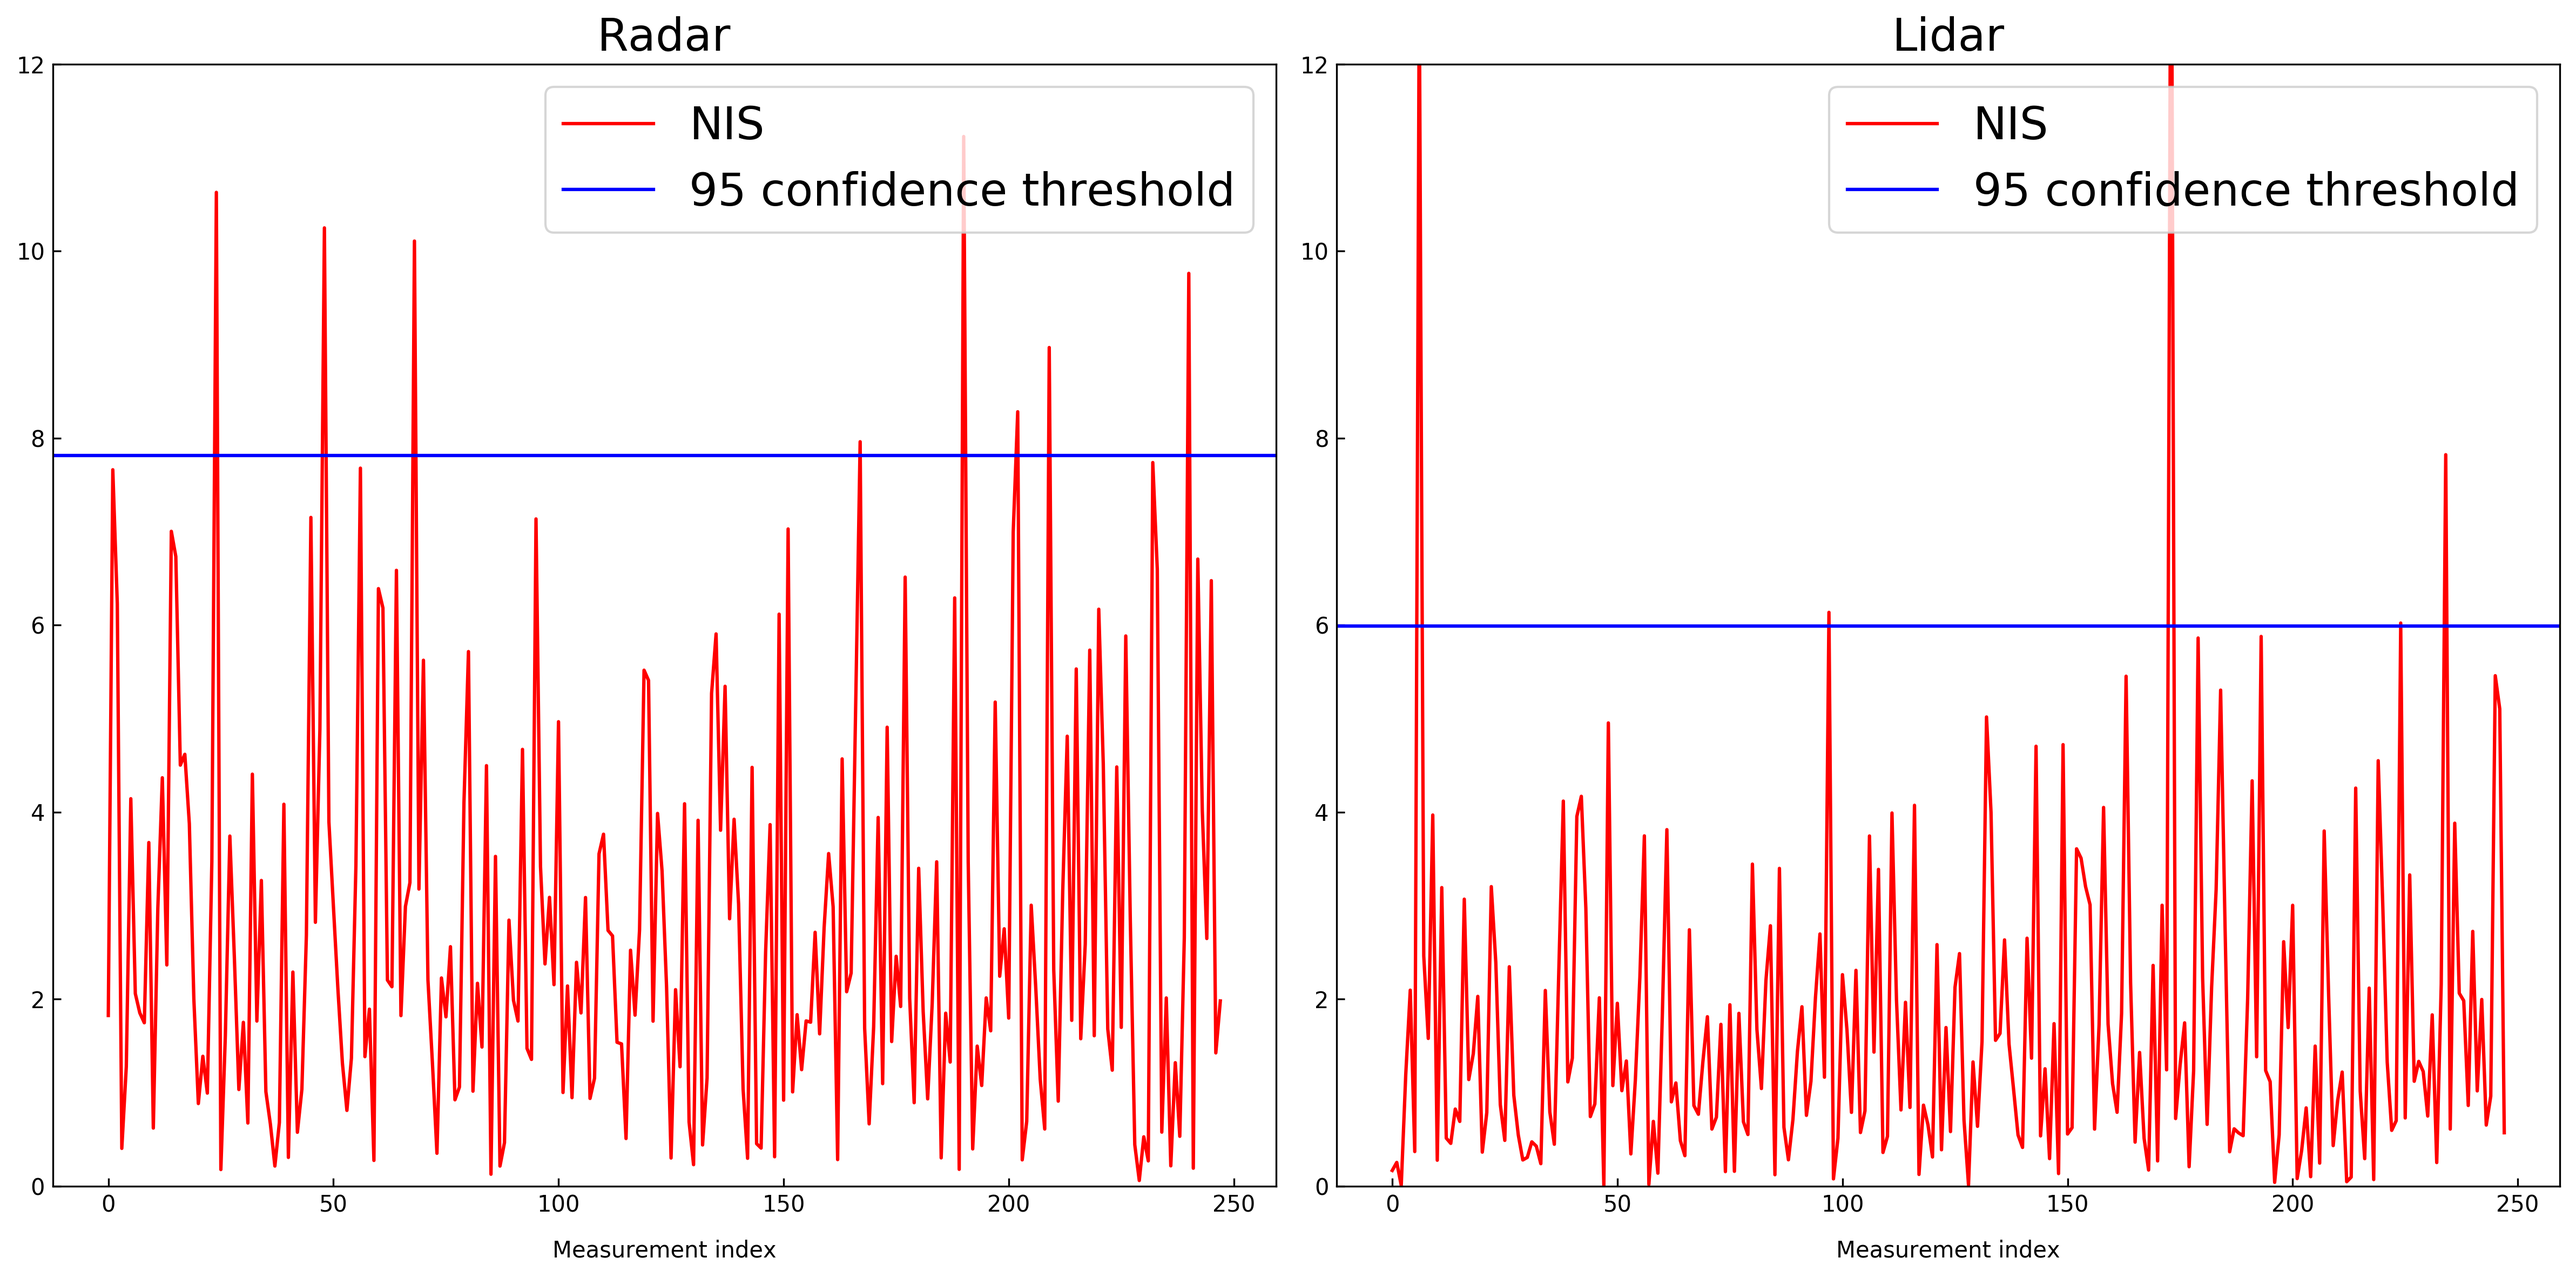
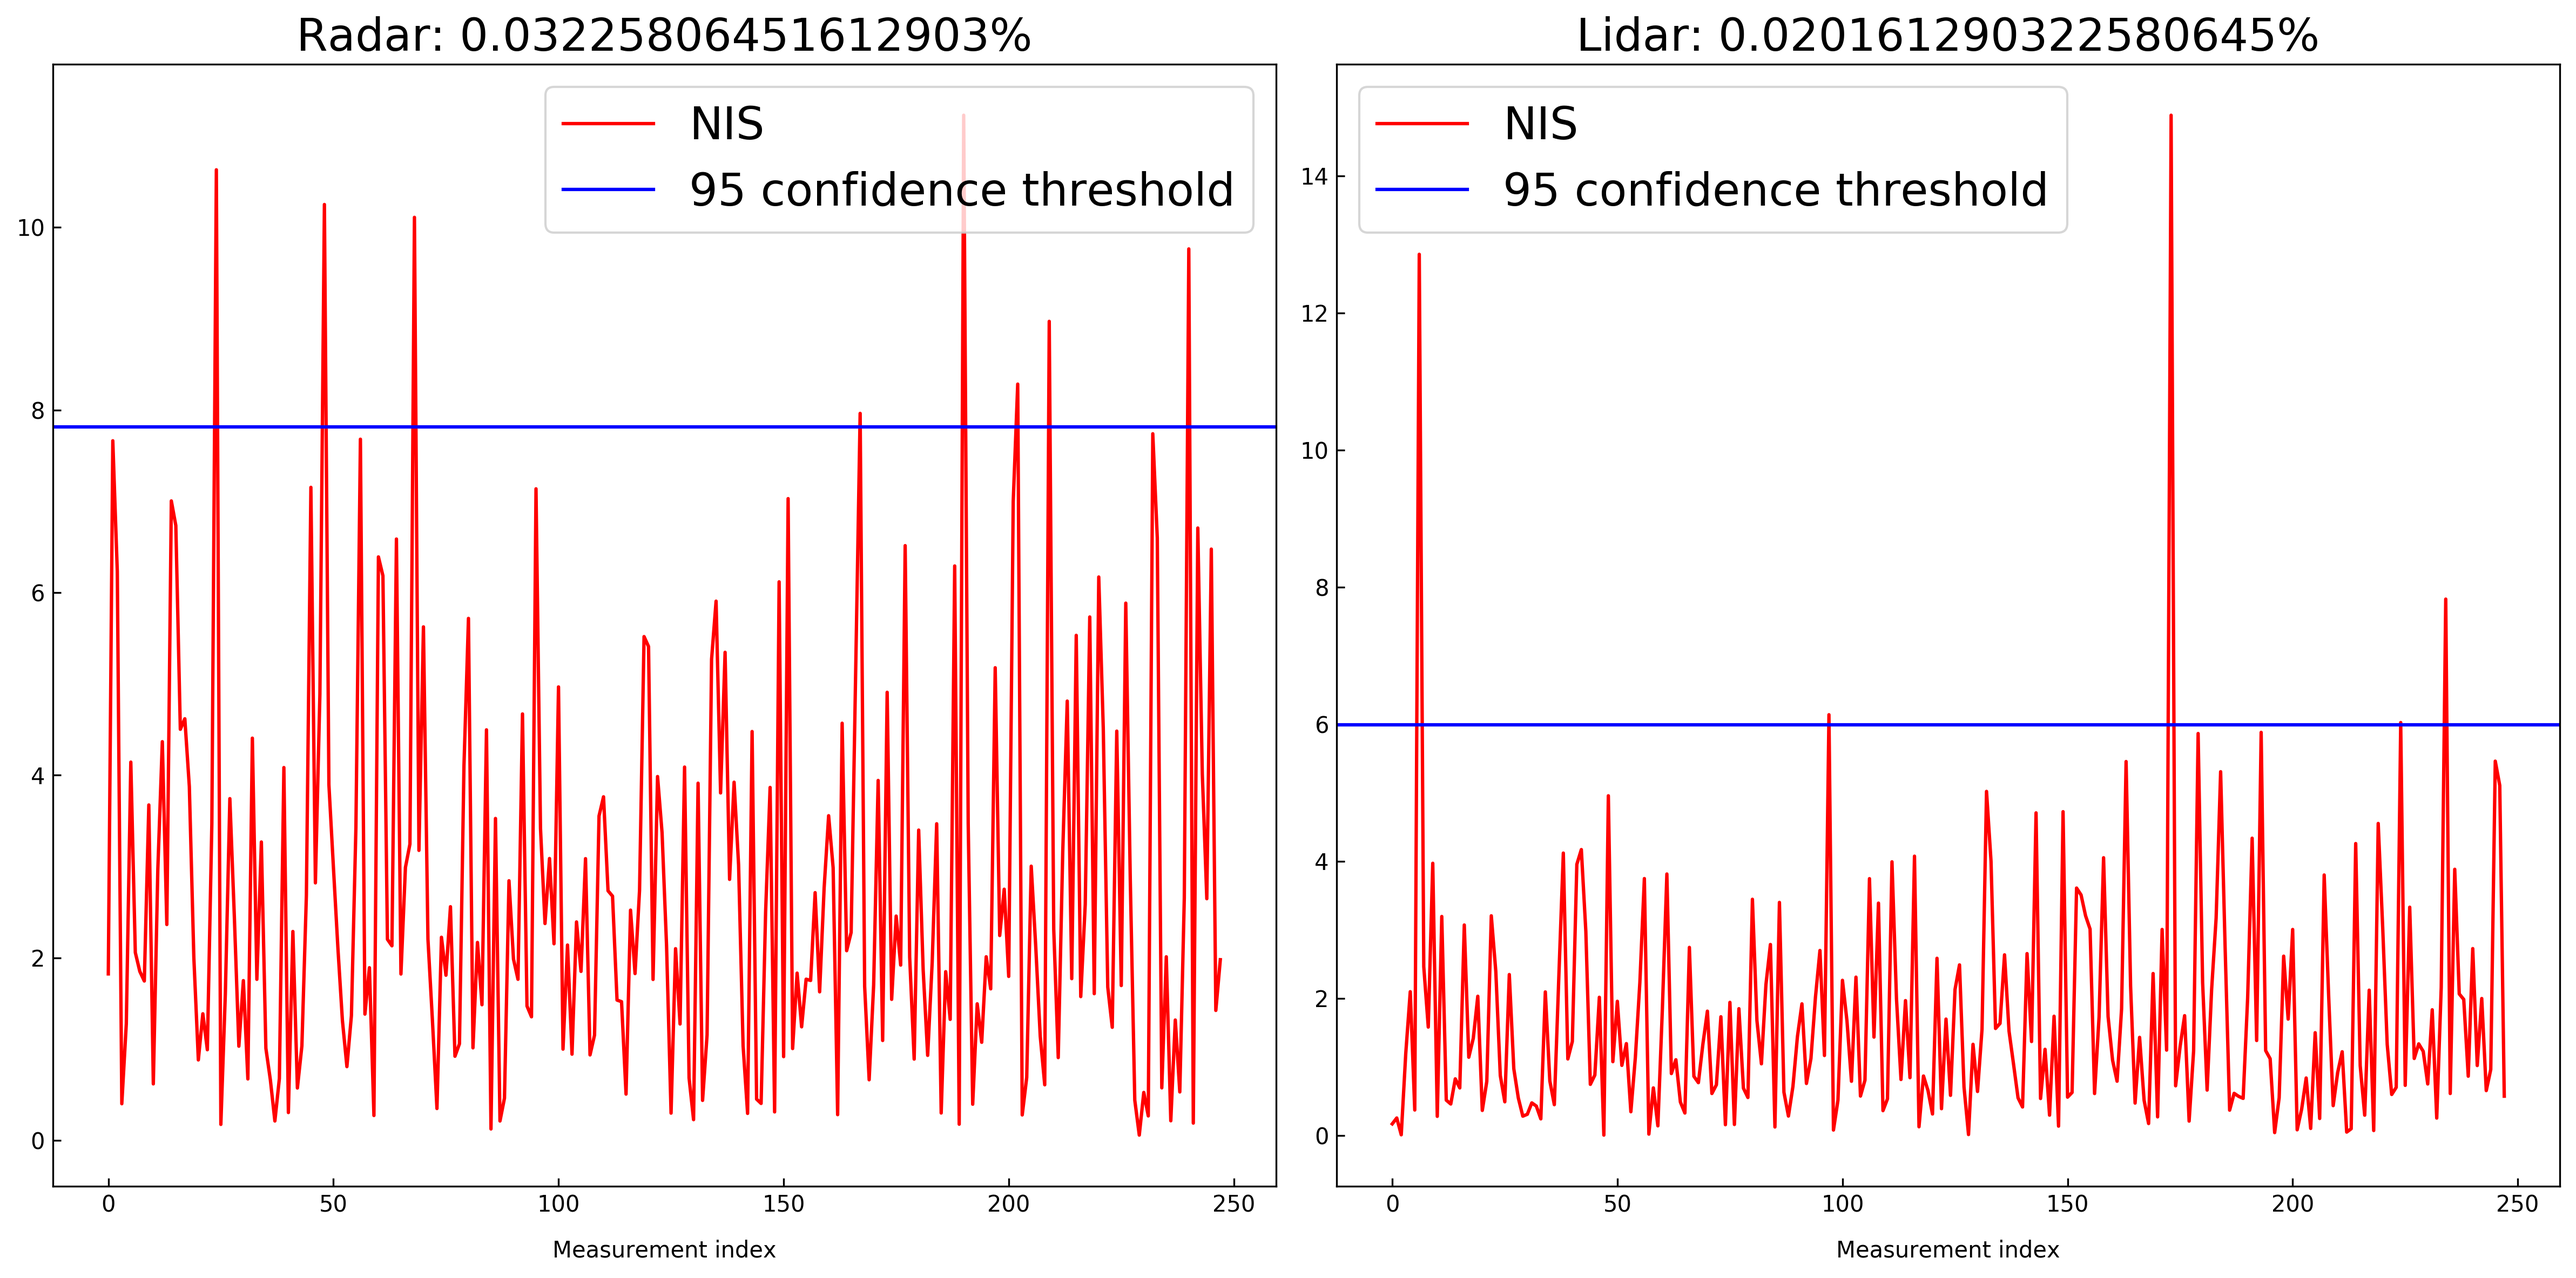
feat: display percentage above chi-squared on NIS result image

diff --git a/NIS/NIS.py b/NIS/NIS.py
@@ -77,8 +77,8 @@ for data, confidence in zip(nis, confidences):
         , color='b'
         , linestyle='-'
         , label='95 confidence threshold')
-    ax.legend( prop={'size':20} )
-    ax.set_ylim([0,12])
+    ax.legend(prop={'size':20})
+    #ax.set_ylim([0,12])
 
     k = 0
     for nis in data:
@@ -89,8 +89,8 @@ for data, confidence in zip(nis, confidences):
 
     id += 1
 
-axes[0].set_title('Radar', fontsize=20)
-axes[1].set_title('Lidar', fontsize=20)
+axes[0].set_title('Radar: ' + str(ratios[0]) + '%', fontsize=20)
+axes[1].set_title('Lidar: ' + str(ratios[1]) + '%', fontsize=20)
 
 print("Radar percentage above chi-squared: " + str(ratios[0]))
 print("Lidar percentage above chi-squared: " + str(ratios[1]))
